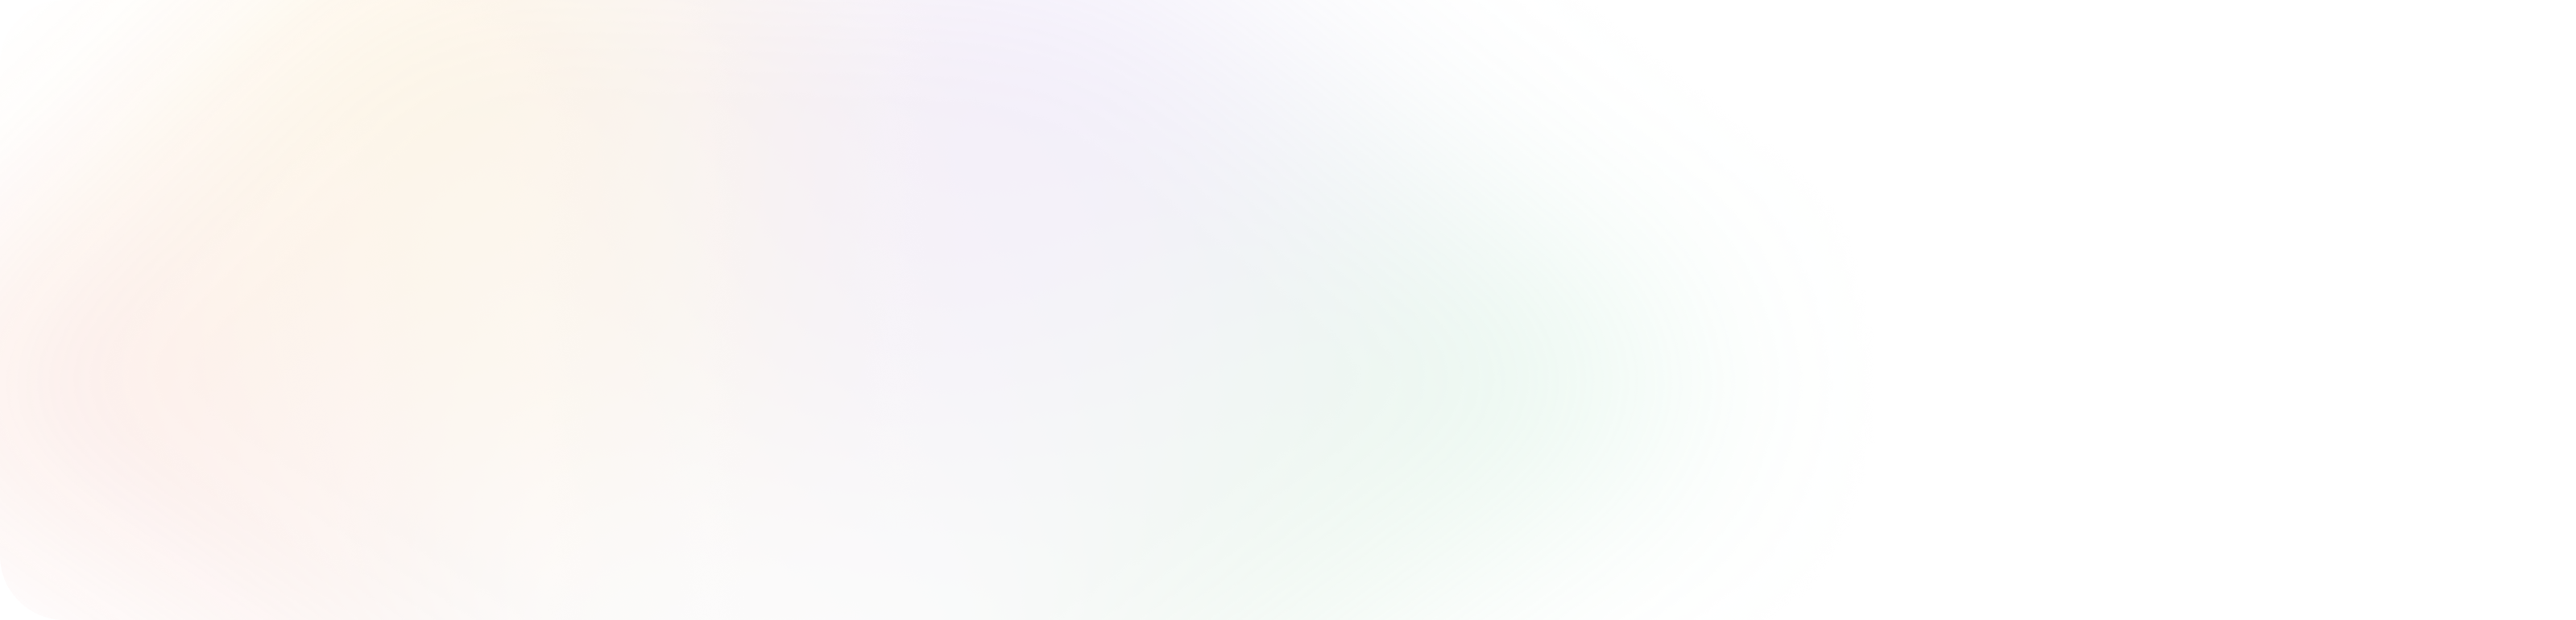
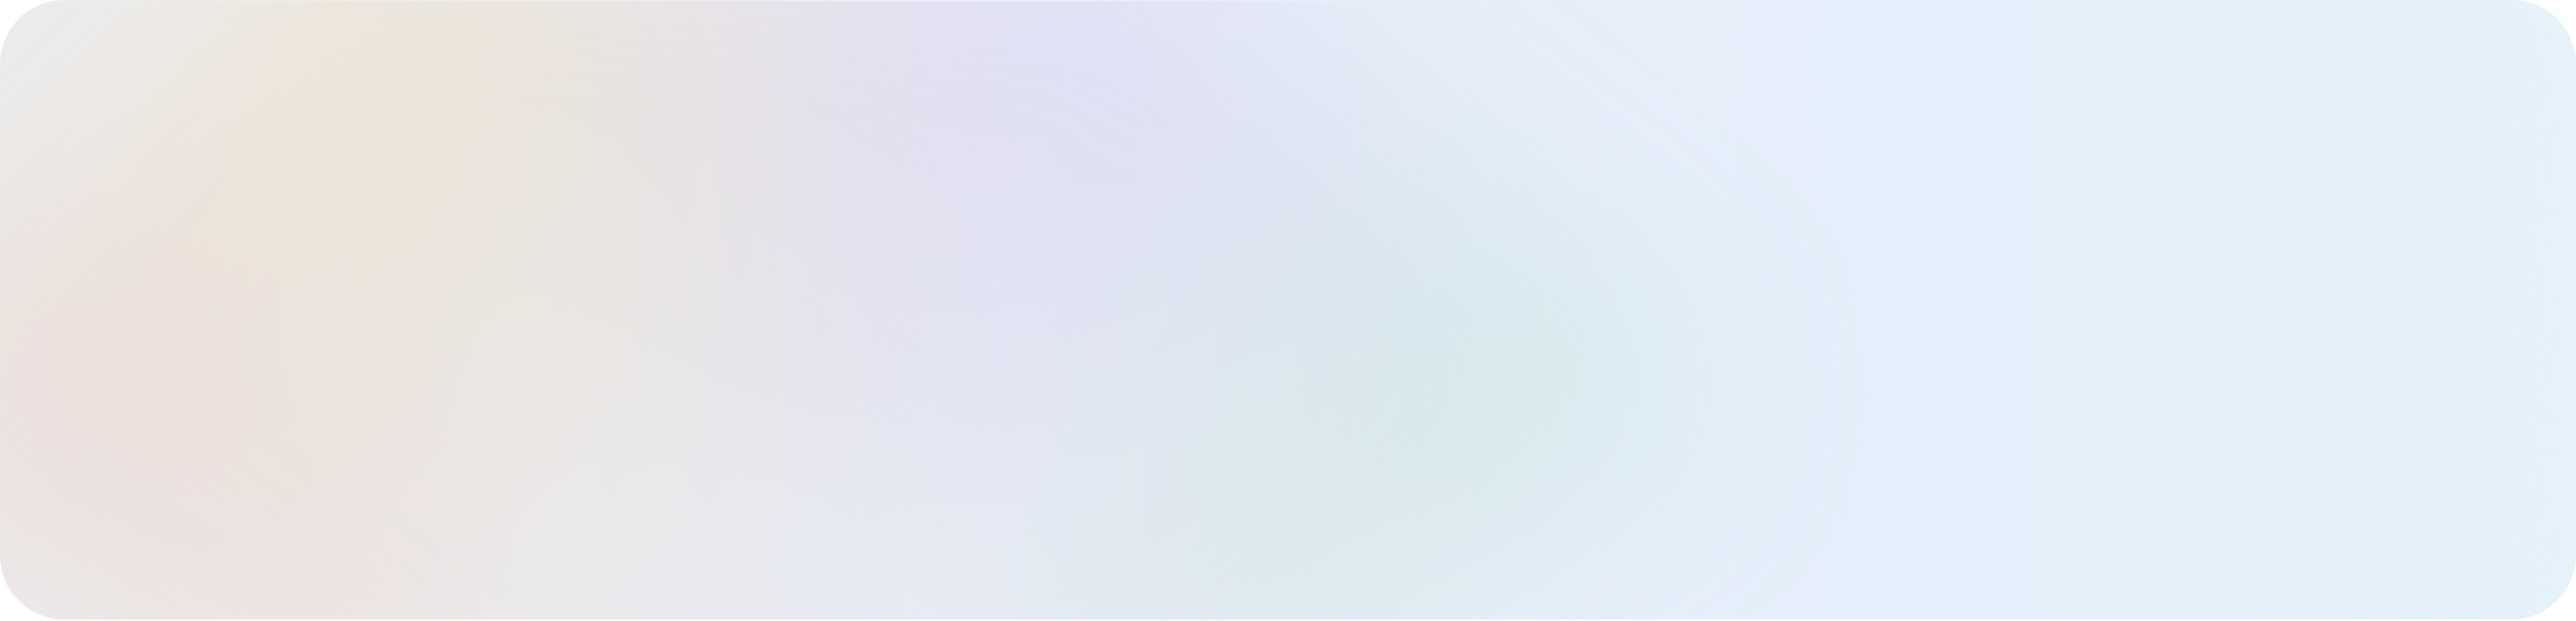
feat: apply figma

diff --git a/packages/frontend/components/ui/SearchTextInput.tsx b/packages/frontend/components/ui/SearchTextInput.tsx
@@ -1,3 +1,4 @@
+import { Flex } from '@chakra-ui/react';
 import Image from 'next/image';
 import { useRouter, useSearchParams } from 'next/navigation';
 import React, { useEffect, useMemo, useRef, useState } from 'react';
@@ -9,7 +10,6 @@ interface SearchTextInputProps {
   value: string;
   onChange: (value: string) => void;
   placeholder?: string;
-  recentSearches?: string[];
   onRecentSearchClick?: (value: string) => void;
 }
 
@@ -63,11 +63,11 @@ const SearchTextInput: React.FC<SearchTextInputProps> = ({
   value,
   onChange,
   placeholder = '제주 서귀포시',
-  recentSearches = [],
   onRecentSearchClick,
 }) => {
   const [showDropdown, setShowDropdown] = useState(false);
   const [highlightedIndex, setHighlightedIndex] = useState(-1);
+  const [recentSearches, setRecentSearches] = useState<string[]>([]);
   const inputRef = useRef<HTMLInputElement>(null);
   const router = useRouter();
   const searchParams = useSearchParams();
@@ -94,7 +94,7 @@ const SearchTextInput: React.FC<SearchTextInputProps> = ({
   const filteredSearches = useMemo(() => {
     if (!value) {
       // 입력값이 없을 때는 전체 지역 데이터만 표시 (최근 검색어 제외)
-      return filteredRegions;
+      return filteredRegions.filter((e, index, self) => self.indexOf(e) === index);
     }
 
     const recentMatches = recentSearches.filter((search) =>
@@ -102,7 +102,7 @@ const SearchTextInput: React.FC<SearchTextInputProps> = ({
     );
 
     // 최근 검색어를 먼저 표시하고, 그 다음에 지역 데이터를 가나다순으로 표시
-    return [...recentMatches, ...filteredRegions];
+    return [...recentMatches, ...filteredRegions].filter((e, index, self) => self.indexOf(e) === index);
   }, [value, recentSearches, filteredRegions]);
 
   // URL 업데이트 함수
@@ -126,6 +126,10 @@ const SearchTextInput: React.FC<SearchTextInputProps> = ({
     onChange(selectedRegion);
     onRecentSearchClick?.(selectedRegion);
     setShowDropdown(false);
+
+    // 최근 검색어 업데이트 max 5개
+    setRecentSearches([selectedRegion, ...recentSearches].slice(0, 4));
+
 
     // Zustand store에 반영
     const { province, region } = findProvinceAndRegionByName(selectedRegion);
@@ -174,6 +178,8 @@ const SearchTextInput: React.FC<SearchTextInputProps> = ({
     setHighlightedIndex(-1);
   }, [value]);
 
+
+
   return (
     <div
       style={{
@@ -189,15 +195,15 @@ const SearchTextInput: React.FC<SearchTextInputProps> = ({
           width: '100%',
           display: 'flex',
           alignItems: 'center',
-          borderRadius: '10px',
-          padding: '18px',
-          gap: '10px',
+          borderRadius: '16px',
+          padding: '18px 32px',
+          gap: '24px',
           background: 'white',
-          marginBottom: recentSearches.length > 0 ? '25px' : '0',
+          marginBottom: '27px',
         }}
       >
         <div className="mr-3 flex-shrink-0">
-          <Image src="/textinput_icon.png" alt="검색" width={15} height={15} />
+          <Image src="/textinput_icon.png" alt="검색" width={18} height={18} />
         </div>
         <input
           ref={inputRef}
@@ -212,7 +218,8 @@ const SearchTextInput: React.FC<SearchTextInputProps> = ({
             width: '100%',
             height: '100%',
             backgroundColor: 'transparent',
-            fontSize: '1rem',
+            fontSize: '22px',
+            fontWeight: '400',
             border: '1px solid transparent',
             color: '#000000',
             outline: 'none',
@@ -220,6 +227,15 @@ const SearchTextInput: React.FC<SearchTextInputProps> = ({
           autoComplete="off"
         />
       </div>
+
+      <Flex width="100%" justifyContent="flex-start" marginLeft="32px" marginBottom="27px" gap="24px">
+        <span style={{ fontSize: '14px', fontWeight: '400', color: '#000000', display: 'flex', alignItems: 'center', lineHeight: '24px' }}>최근 검색</span>
+        <Flex gap="10px">
+          {recentSearches.map((search, index) => (
+            <span key={index} style={{ fontSize: '14px', lineHeight: '24px', fontWeight: '500', color: '#000000', padding: '3.5px 10px', borderRadius: '9px', border: '1px solid #000000' }}>{search}</span>
+          ))}
+        </Flex>
+      </Flex>
 
       {/* AutoComplete Dropdown */}
       {showDropdown && filteredSearches.length > 0 && (

diff --git a/packages/frontend/features/results/sections/DistrictSearchSection.tsx b/packages/frontend/features/results/sections/DistrictSearchSection.tsx
@@ -10,13 +10,8 @@ const DistrictSearchSection: React.FC = () => {
     setSearchValue(value);
   };
 
-  const title = '229개 지자체중 우리 지역 찾아보기';
+  const title = '229개 지자체 중 우리 지역 찾아보기';
 
-  const mockRecentSearches = [
-    '서울시 강남구',
-    '부산시 해운대구',
-    '인천시 연수구',
-  ];
 
   return (
     <div
@@ -24,35 +19,34 @@ const DistrictSearchSection: React.FC = () => {
         display: 'flex',
         flexDirection: 'column',
         alignItems: 'center',
-        width: '80%',
+        width: '1400px',
         gap: '30px',
         color: '#000000',
         padding: '20px',
-        paddingTop: '80px',
+        paddingTop: '94px',
         paddingBottom: '100px',
         position: 'relative',
         borderRadius: '50px',
+        margin: '47px 0',
         backgroundImage: 'url(/title_bg.png)',
-        backgroundColor: 'red',
-        backgroundSize: '150% 150%',
+        backgroundSize: '100% 100%',
         backgroundRepeat: 'no-repeat',
         backgroundPosition: 'center',
       }}
     >
       <div
         style={{
-          fontSize: '1.9rem',
+          fontSize: '30px',
           fontWeight: '600',
         }}
       >
-        {title}{' '}
+        {title}
       </div>
 
-      <div style={{ width: '100%', maxWidth: '500px' }}>
+      <div style={{ width: '100%', maxWidth: '520px' }}>
         <SearchTextInput
           value={searchValue}
           onChange={setSearchValue}
-          recentSearches={mockRecentSearches}
           onRecentSearchClick={handleRecentSearchClick}
         />
       </div>

diff --git a/packages/frontend/components/layout/ResultLayout.tsx b/packages/frontend/components/layout/ResultLayout.tsx
@@ -15,6 +15,7 @@ const ResultLayout = ({ children }: { children: React.ReactNode }) => {
         minWidth: '1500px',
         alignItems: 'center',
         justifyContent: 'center',
+        backgroundColor: '#F5F5F5',
       }}
     >
       <Header />
